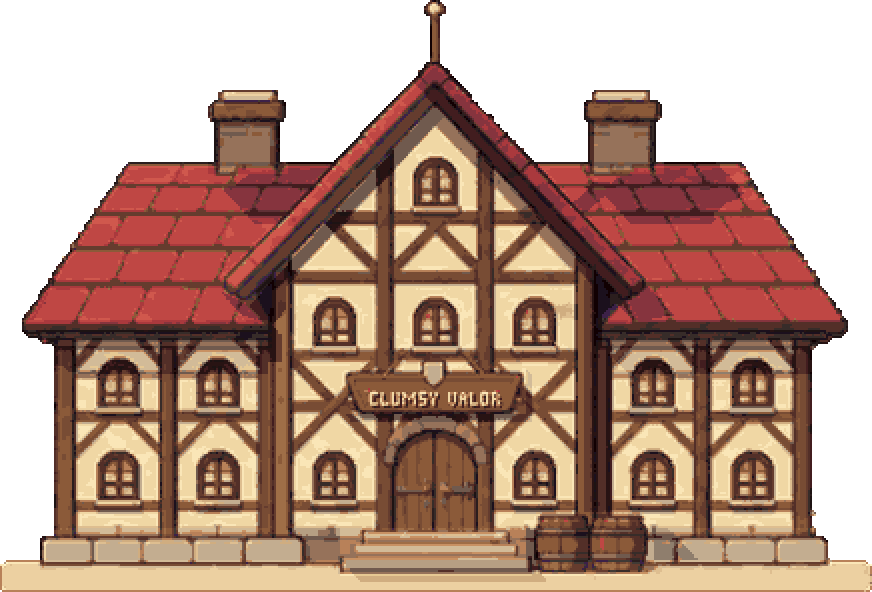
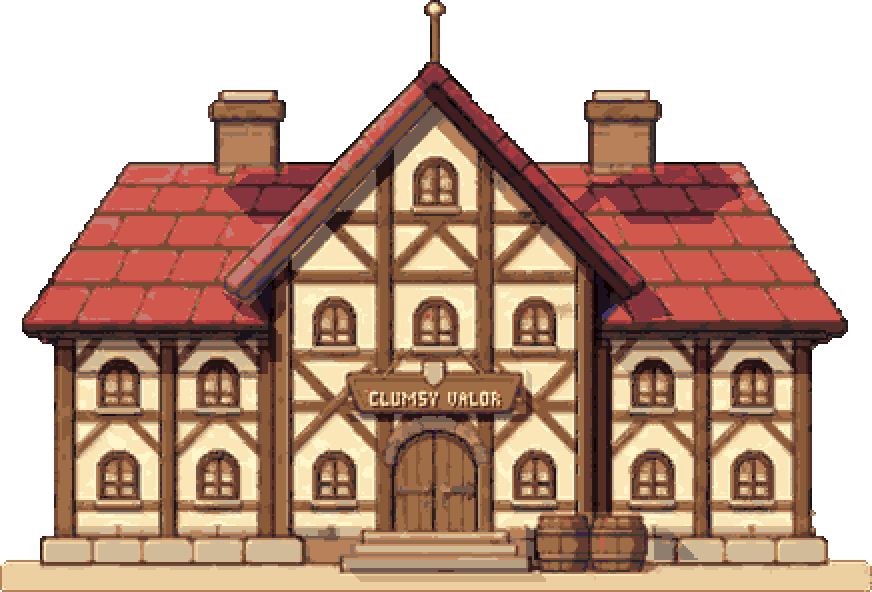
Preview: clearer light on the hall: sunlit masses +1/+2, timber and window relief shadows inside the light
Claude-Session: https://claude.ai/code/session_01FzDataYedfiK9tzFLcKdoU

diff --git a/tools/light_proxy.py b/tools/light_proxy.py
@@ -5,12 +5,14 @@ its walls, roof planes, eaves, chimneys as planes with a depth), never guessed f
   1. big masses: each plane's facing to the sun (N . L) gives the whole plane ONE light level
   2. cast shadow: from each cell, a ray toward the sun through the proxy's depth; inside a solid on the way = shade
      (eaves over walls, chimneys on the roof, the gable's body on the wings)
-  3. detail: the art's own small shading stays as drawn inside each mass (the whole mass moves together)
+  3. detail, inside the light only: a plane's small relief by material ("relief": timbers out of the plaster, panes
+     sunk in their frames) throws one-step shadows a few cells long, and the relief's edge turned to the sun gets +1
   4. colour: the level moves each pixel along ITS material ramp (never "the nearest colour"): the ramps are cool and
      greyer at the dark end and warm and richer at the light end (tools/town_palette2.py), so a step is a move in
      value, hue, saturation and temperature together. Off-palette colours: none.
 Light levels (steps along the ramp, relative to the art as drawn, which is the noon look):
-  sunlit, facing the sun squarely (N.L > .55)  +1
+  sunlit, facing the sun squarely (N.L > .75)  +2
+  sunlit (N.L > .3)                            +1
   sunlit, glancing                             0 (the evening's orange is the ambient's, lit.gd: not a second step)
   shade, facing up (sees the sky)              -1
   shade, facing front / down                   -2
@@ -67,13 +69,27 @@ def proxy_maps(k, shape):
     return P, pid, N, Z, T
 
 
-def in_sun(ys, xs, Z, T, solid, L, reach=160):
+def relief_map(nat, P, pid):
+    """the small relief inside a plane (its "relief": {ramp name: cells out (+) or in (-)}): timbers standing out of
+    the plaster, window panes sunk behind their frames. Only the detail pass sees it."""
+    R = np.zeros(pid.shape)
+    names = PJ["names"]
+    ys, xs = np.nonzero(pid >= 0)
+    for y, x in zip(ys, xs):
+        rel = P["planes"][pid[y, x]].get("relief")
+        if not rel: continue
+        c = tuple(int(v) for v in nat[y, x, :3])
+        if c in INDEX: R[y, x] = rel.get(names[INDEX[c][0]], 0.0)
+    return R
+
+
+def in_sun(ys, xs, Z, T, solid, L, reach=160, t0=2):
     """march each cell's ray toward the sun through the proxy: it is in shade when it passes inside a solid"""
     h, w = Z.shape
     d = L / max(np.hypot(L[0], L[1]), 1e-6)            # per cell of screen travel
     z0 = Z[ys, xs]
     shade = np.zeros(len(ys), bool)
-    for t in range(2, reach):
+    for t in range(t0, reach):
         X = np.round(xs + d[0] * t).astype(int); Y = np.round(ys - d[1] * t).astype(int)
         ok = (X >= 0) & (X < w) & (Y >= 0) & (Y < h)
         zr = z0 + d[2] * t
@@ -83,17 +99,30 @@ def in_sun(ys, xs, Z, T, solid, L, reach=160):
     return ~shade
 
 
-def levels_sun(N, Z, T, m, solid, h, evening):
+def levels_sun(N, Z, T, m, solid, h, evening, R=None):
     L = sun3(h)
     ys, xs = np.nonzero(m)
     n = N[ys, xs]
     ndl = n @ L
+    # 1. the big masses: a plane's facing, and what the big forms throw on it
     sun = (ndl > 0.05) & in_sun(ys, xs, Z, T, solid, L)
     lv = np.zeros(len(ys), int)
-    lv[sun & (ndl > 0.55)] = 1
+    lv[sun & (ndl > 0.3)] = 1
+    lv[sun & (ndl > 0.75)] = 2
     up = n[:, 1] > 0.45
     lv[~sun & up] = -1
     lv[~sun & ~up] = -2
+    # 2. the detail, only inside the light: timbers throw a short shadow on the plaster and into the window recesses
+    #    (one step: it must not break the mass), and the timber edge turned to the sun catches it (+1)
+    if R is not None and R.any():
+        Zd = Z + R
+        det = sun & ~in_sun(ys, xs, Zd, T, solid, L, reach=10, t0=1)
+        lv[det] -= 1
+        d = L / max(np.hypot(L[0], L[1]), 1e-6)
+        sx = int(np.sign(np.round(d[0]))); sy = -int(np.sign(np.round(d[1] * 0.999)))
+        nx = np.clip(xs + sx, 0, Z.shape[1] - 1); ny = np.clip(ys + sy, 0, Z.shape[0] - 1)
+        edge = sun & ~det & (R[ys, xs] > 0) & (R[ny, nx] < R[ys, xs] - 0.5)
+        lv[edge] += 1
     out = np.zeros(m.shape, int); out[ys, xs] = lv
     return out, sun, ys, xs, ndl
 
@@ -134,8 +163,9 @@ def bake(k, preview=None, lights=None, box=None):
     P, pid, N, Z, T = proxy_maps(k, m.shape)
     solid = (pid >= 0) & m
     out = {}
+    R = relief_map(nat, P, pid)
     for tag, h in (("m", 8.0), ("e", 17.0)):
-        lv, _, _, _, _ = levels_sun(N, Z, T, m & (pid >= 0), solid, h, tag == "e")
+        lv, _, _, _, _ = levels_sun(N, Z, T, m & (pid >= 0), solid, h, tag == "e", R)
         img, miss = recolor(nat, m & (pid >= 0), lv)
         out[tag] = img
         print(k, tag, "off-palette cells kept as drawn:", miss)
